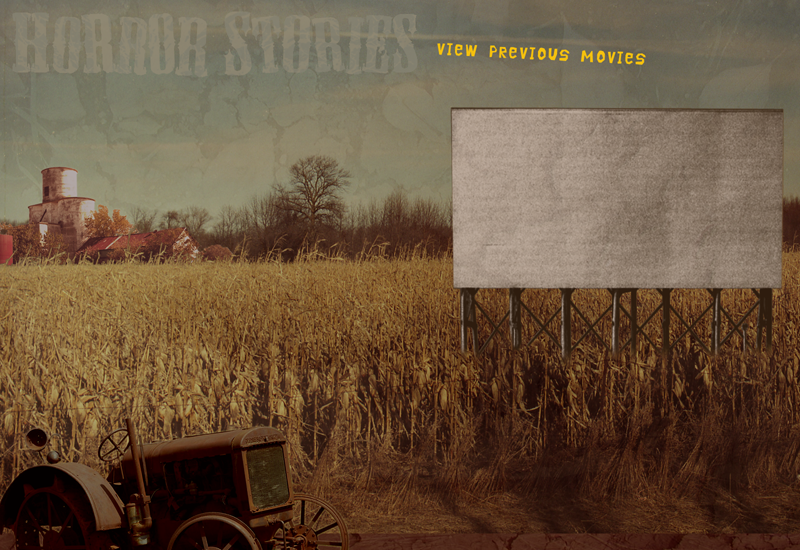
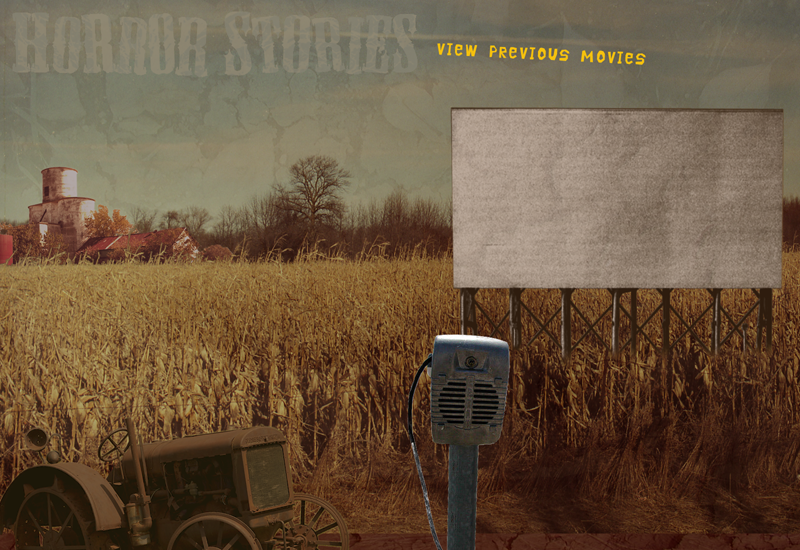
youtube verification and others. site is up to date

Changed region(s): [[0.0, 0.7727, 0.4375, 1.0], [0.5, 0.5873, 0.6562, 1.0]]

diff --git a/public/stylesheets/application.css b/public/stylesheets/application.css
@@ -143,8 +143,10 @@ a {
 #success-button a{
   margin:280px 0 0 65px;
   position:absolute;
-  background: url('../images/upload-page/success-button.png') no-repeat 438px 15px;
+  background: url('../images/upload-page/success-button.png') no-repeat;
   text-decoration:none;
+  width: 219px;
+  height: 15px;
 }
 
 #success-button a:hover{
@@ -161,8 +163,10 @@ a {
 #fail-button a{
   margin:284px 0 0 107px;
   position:absolute;
-  background: url('../images/upload-page/fail-button.png') no-repeat 379px 32px;
+  background: url('../images/upload-page/fail-button.png') no-repeat;
   text-decoration:none;
+  width;189px;
+  height:32px;
 }
 
 #fail-button a:hover{
@@ -567,10 +571,25 @@ a {
   visibility:hidden;
 }
 
+#sound-buttons-single{
+  position:absolute;
+  margin:350px 0 0 530px;
+}
+
 /*---------------Radio buttons------------*/
 
 
 #sound-buttons .radio{
+  margin-top:6px;
+  width: 12px;
+  height: 12px;
+  background: url('../images/check-sound.png') no-repeat;
+  display: block;
+  clear: left;
+  float: left; 
+}
+
+#sound-buttons-single .radio{
   margin-top:6px;
   width: 12px;
   height: 12px;

diff --git a/public/javascripts/application.js b/public/javascripts/application.js
@@ -198,12 +198,7 @@
 		}
 		
 	}
-	
-	function endSounds(){
-		
-		
-	}
-	    
+		    
        
 /* CUSTOM FORM ELEMENTS
 

diff --git a/app/controllers/videos_controller.rb b/app/controllers/videos_controller.rb
@@ -2,7 +2,8 @@ class VideosController < ApplicationController
   before_filter :login_required, :only=>['edit', 'update', 'destroy']
     
     require 'csv'
-    
+    require 'net/http'
+        
   def import
     Video.delete_all
     @cats = [0,0,1,2,3,4,6,7,8,9,10,11,13,14,15,16,17,19,20,21,22,24,25,27,28]
@@ -66,7 +67,8 @@ class VideosController < ApplicationController
   # POST /videos.json
   def create
     @video = Video.new(params[:video])
-
+    
+    
     respond_to do |format|
       if @video.save
          format.html { render :action => "success" }

diff --git a/app/models/video.rb b/app/models/video.rb
@@ -7,7 +7,16 @@ has_and_belongs_to_many :collages
 
   attr_accessor :category_list
   after_save :update_categories
+  before_save :validate_title
   
+  def validate_title    
+    image = Net::HTTP.get_response(URI.parse("http://gdata.youtube.com/feeds/api/videos/" + self.title)).body
+    if(image == 'Invalid id')  
+      return false
+    else 
+      return true
+    end 
+  end
 
   private 
 

diff --git a/app/controllers/collages_controller.rb b/app/controllers/collages_controller.rb
@@ -86,13 +86,13 @@ class CollagesController < ApplicationController
   end
   
   def share
-    @collage = Collage.find(:all, :order => "created_at DESC", :limit => 1)
+    @collage = Collage.find(params[:id])
     
     respond_to do |format|
         format.html { render :action => "share" }
     end
   end
-  
+    
   def get_all_categories
       @categories = Category.find(:all)
    end  

diff --git a/config/routes.rb b/config/routes.rb
@@ -23,15 +23,13 @@ HorrorMod::Application.routes.draw do
   get "videos/collage"
   
   get "home/poison"
-  
-  get "collages/share"
-  
+    
   get "stories/adminshow"
   
   get "videos/import"
-  
+    
   resources :collages
-
+  
   resources :stories
   
   resources :home

diff --git a/app/mailers/user_mailer.rb b/app/mailers/user_mailer.rb
@@ -1,7 +1,9 @@
 class UserMailer < ActionMailer::Base
  
- default :from => 'horror@horrorstories.jillianmcdonald.net'
+ default :from => 'horror@jillianmcdonald.net'
+  
   def share_collage(email)
     mail(:to => email, :subject => 'scary video')
   end
+  
 end
